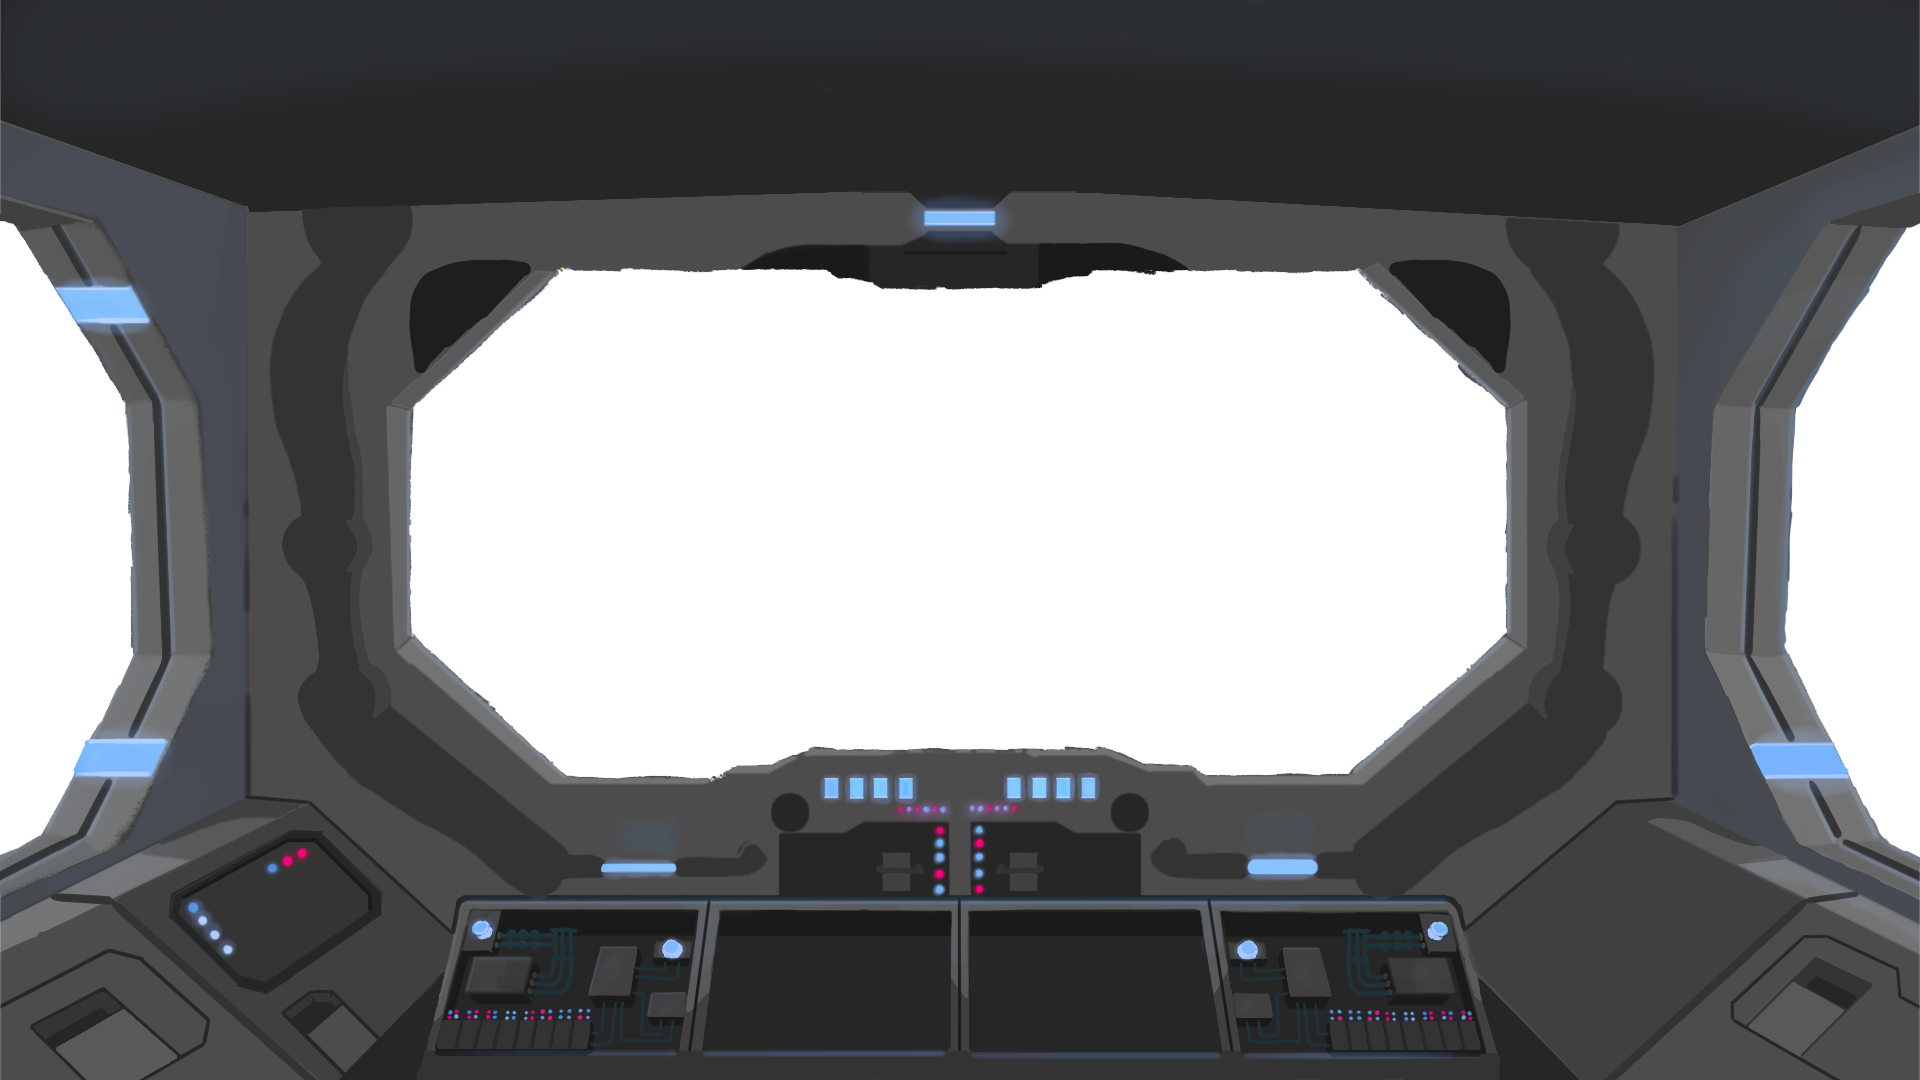
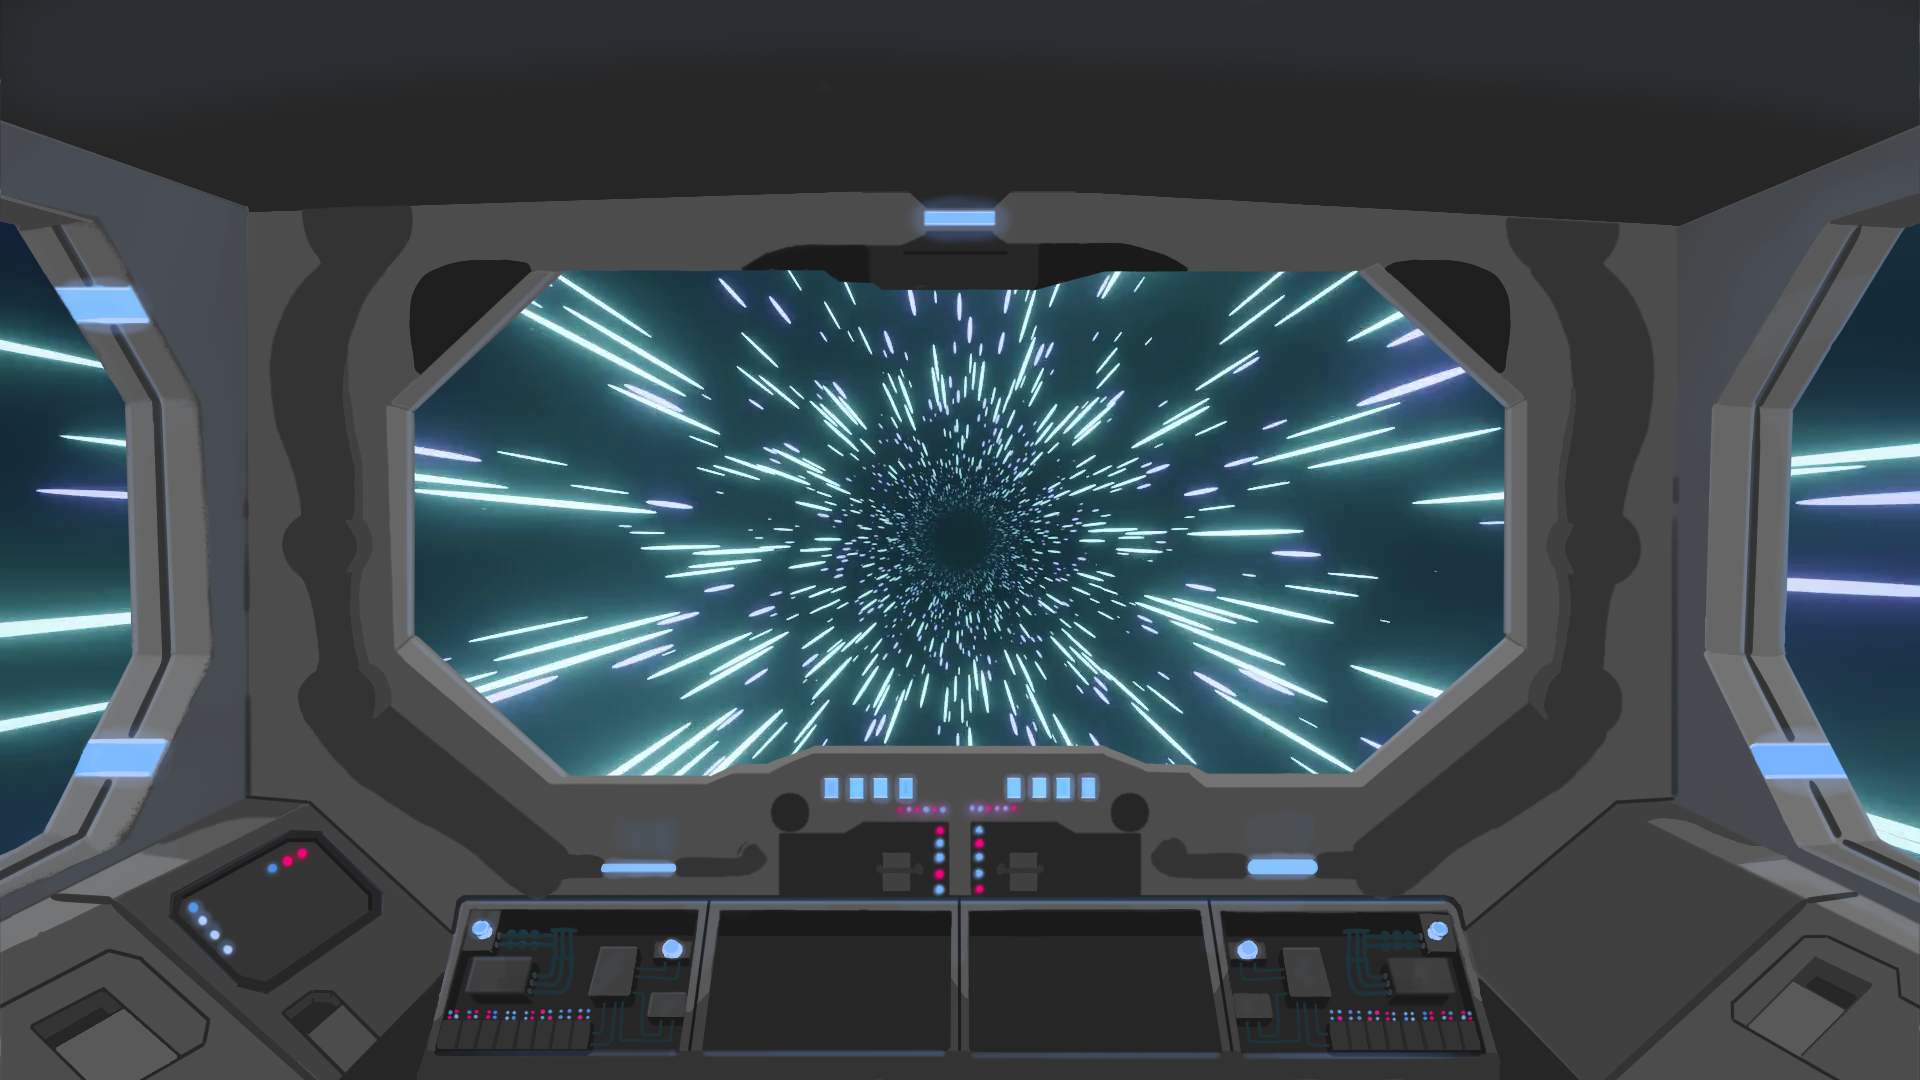
Cleaned up the overlay image and changed the colors for the color change animation

Changed region(s): [[0.1875, 0.2444, 0.8125, 0.7333], [0.0, 0.2139, 0.0938, 0.7944], [0.9062, 0.2139, 1.0, 0.7944]]

diff --git a/styles.css b/styles.css
@@ -8,11 +8,11 @@
 /* Navigation Bar */
 .navbar {
   position: fixed;
-  top: 0; /* Ensure it’s at the top */
+  top: 0;
   width: 100%;
-  background-color: #333; /* Dark grey color */
+  background-color: #333;
   padding: 1rem;
-  z-index: 1000; /* Ensure it’s on top of other content */
+  z-index: 1000;
 }
 
 .navbar ul {
@@ -46,6 +46,7 @@
   justify-content: center;
   align-items: center;
   position: relative;
+  overflow: hidden; /* Prevent overflow issues */
 }
 
 /* Video Container */
@@ -56,15 +57,15 @@
   width: 100%;
   height: 100%;
   display: flex;
-  justify-content: center; /* Center horizontally */
-  align-items: center; /* Center vertically */
-  overflow: hidden;
+  justify-content: center;
+  align-items: center;
+  z-index: 0; /* Ensure video is behind everything */
 }
 
 .video-container video {
-  min-width: 100%; /* Ensures the video covers the width */
-  min-height: 100%; /* Ensures the video covers the height */
-  object-fit: cover; /* Ensures the video maintains its aspect ratio while covering the entire section */
+  min-width: 100%;
+  min-height: 100%;
+  object-fit: cover;
 }
 
 /* Spaceship Overlay Image */
@@ -74,10 +75,13 @@
   left: 0;
   width: 100%;
   height: 100%;
-  z-index: 2; /* Make sure it's on top of the video */
-  object-fit: cover; /* This ensures the image covers the whole video area */
+  display: flex;
+  justify-content: center;
+  align-items: center;
+  z-index: 2; /* Ensure it's on top of the video */
+  object-fit: cover; /* Ensure the image covers the video area */
+  pointer-events: none; /* Allow clicks to pass through if needed */
 }
-
 
 /* Dark overlay to slightly dim the background GIF */
 .overlay {
@@ -86,51 +90,51 @@
   left: 0;
   width: 100%;
   height: 100%;
-  background-color: rgba(0, 0, 0, 0.5);
-  z-index: 1;
+  background-color: rgba(0, 0, 0, 0.25);
+  z-index: 3; /* Ensure it's above the video but below the overlay image */
 }
 
 /* Centered Text Container */
 .centered-text {
-  z-index: 2;
+  z-index: 3; /* Ensure it's above everything else */
   text-align: center;
   display: flex;
-  justify-content: center; /* Center horizontally */
-  align-items: center; /* Center vertically */
-  height: 100vh; /* Full viewport height */
+  justify-content: center;
+  align-items: center;
+  height: 100vh;
   position: relative;
 }
 
 /* Text Container */
 .text-container {
-  position: relative; /* Establish a positioning context */
-  display: inline-block; /* Fit content */
+  position: relative;
+  display: inline-block;
 }
 
 /* Static Text */
 .static-text {
-  font-family: 'Handjet', cursive; /* Apply Handjet font */
-  color: gold; /* Set color to gold */
-  font-size: 3.2rem; /* Adjust font size */
-  text-transform: uppercase; /* Convert text to uppercase */
+  font-family: 'Handjet', cursive;
+  color: gold;
+  font-size: 4.2rem;
+  text-transform: uppercase;
 }
 
 /* Typing Wrapper */
 .typing-wrapper {
-  display: inline-block; /* Fit content */
-  margin-top: 0.5rem; /* Space between static and typing text */
+  display: inline-block;
+  margin-top: 0.5rem;
 }
 
 /* Typing Text */
 .typing-text {
-  font-size: 4rem;
+  font-size: 5rem;
   font-family: 'Handjet', cursive;
-  color: gold; /* Starting color */
+  color: gold;
   text-transform: uppercase;
   white-space: nowrap;
   overflow: hidden;
   border-right: .15em solid gold;
-  animation: typing 4s steps(30, end), blink-caret .75s step-end infinite, color-change 10s ease-in-out infinite; /* Added color-change animation */
+  animation: typing 4s steps(30, end), blink-caret .75s step-end infinite, color-change 10s ease-in-out infinite;
 }
 
 /* Typing effect */
@@ -159,13 +163,13 @@
     color: gold;
   }
   25% {
-    color: lightblue;
+    color: yellow;
   }
   50% {
-    color: lightgreen;
+    color: lightgoldenrodyellow;
   }
   75% {
-    color: pink;
+    color: lemonchiffon;
   }
   100% {
     color: gold;

diff --git a/main.html b/main.html
@@ -25,11 +25,11 @@
     <div class="overlay"></div>
     <div class="video-container">
       <video autoplay loop muted playsinline>
-        <source src="https://github.com/lvdv4j/Portfolio-Website/blob/3433d44b123160db674622b8e28abada7900df8d/res/Star%20Warp.mp4" type="video/mp4">
+        <source src="https://raw.githubusercontent.com/lvdv4j/Portfolio-Website/3433d44b123160db674622b8e28abada7900df8d/res/Star%20Warp.mp4" type="video/mp4">
       </video>
     </div>
     <!-- Spaceship overlay image -->
-    <img src="https://raw.githubusercontent.com/lvdv4j/Portfolio-Website/3433d44b123160db674622b8e28abada7900df8d/res/Spaceship%20Overlay.png" alt="Spaceship Overlay" class="spaceship-overlay">
+    <img src="https://github.com/lvdv4j/Portfolio-Website/raw/ee149e8453dc6d77d5bc43078220c54ea0573e54/res/Spaceship%20Overlay.png" alt="Spaceship Overlay" class="spaceship-overlay">
     <div class="centered-text">
       <div class="text-container">
         <div class="static-text">Hi I'm</div>

diff --git a/script.js b/script.js
@@ -1,5 +1,5 @@
 document.addEventListener('DOMContentLoaded', function () {
-    const texts = ["Lizzon-Vanique", "A programmer", "An animator", "A data engineer", "A game designer"];
+    const texts = ["Lizzon-Vanique", "A programmer", "An animator", "A data engineer", "A game designer", "A website developer"];
     const typingText = document.getElementById('changing-text');
     let currentTextIndex = 0;
   
